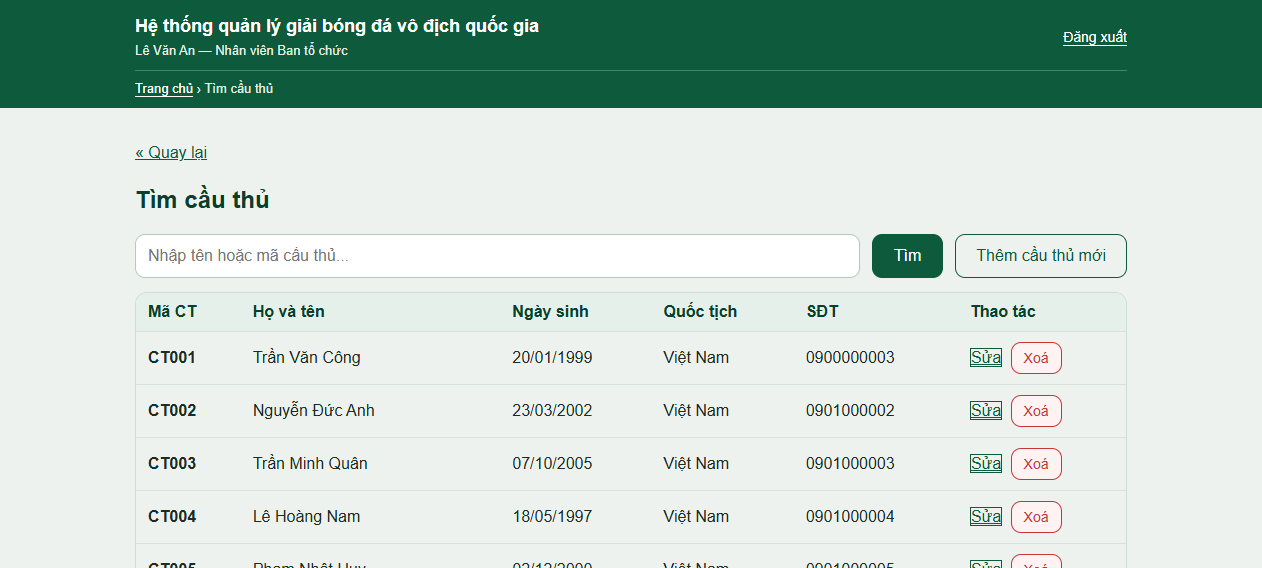
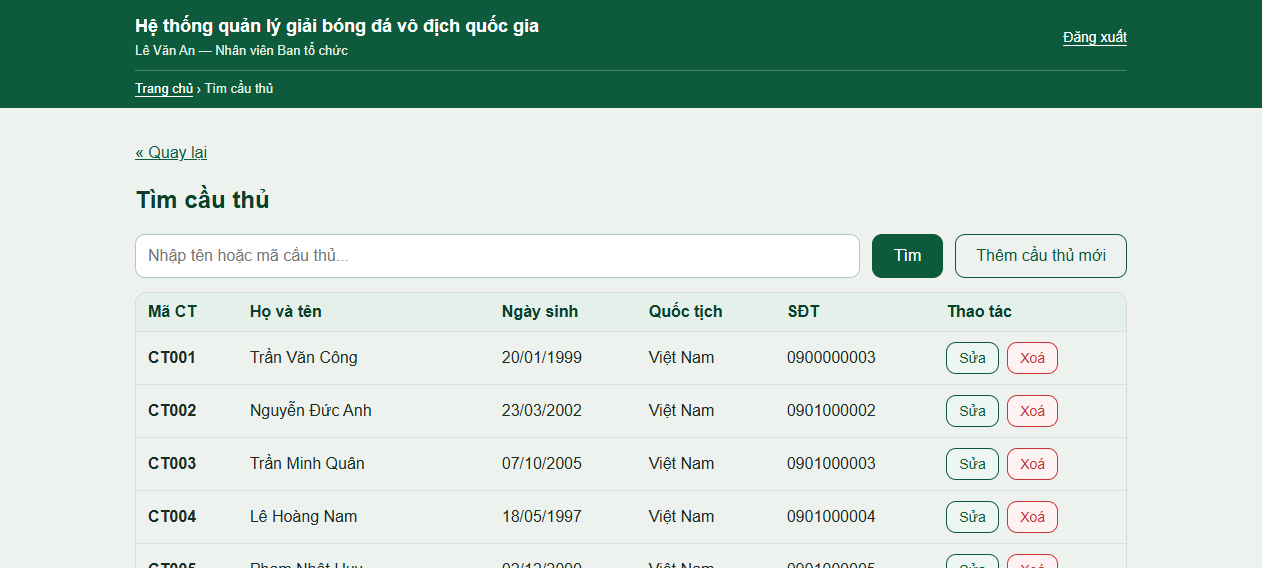
docs: retake screenshots with fixed search.css styling

diff --git a/README.md b/README.md
@@ -153,11 +153,11 @@ docker exec -i football-postgres psql -U football_app -d football_db < database/
 
 ![Form đã điền](docs/screenshots/05-add-player-filled.png)
 
-**6. Thêm thành công** — hệ thống tự sinh mã `CT053` và tài khoản/mật khẩu mặc định:
+**6. Thêm thành công** — hệ thống tự sinh mã `CT054` và tài khoản/mật khẩu mặc định:
 
 ![Thêm thành công](docs/screenshots/06-add-player-success.png)
 
-**7. Tìm kiếm cầu thủ mới** — cầu thủ `CT053` đã có trong hệ thống:
+**7. Tìm kiếm cầu thủ mới** — cầu thủ `CT054` đã có trong hệ thống:
 
 ![Kết quả tìm kiếm](docs/screenshots/07-search-result.png)
 
